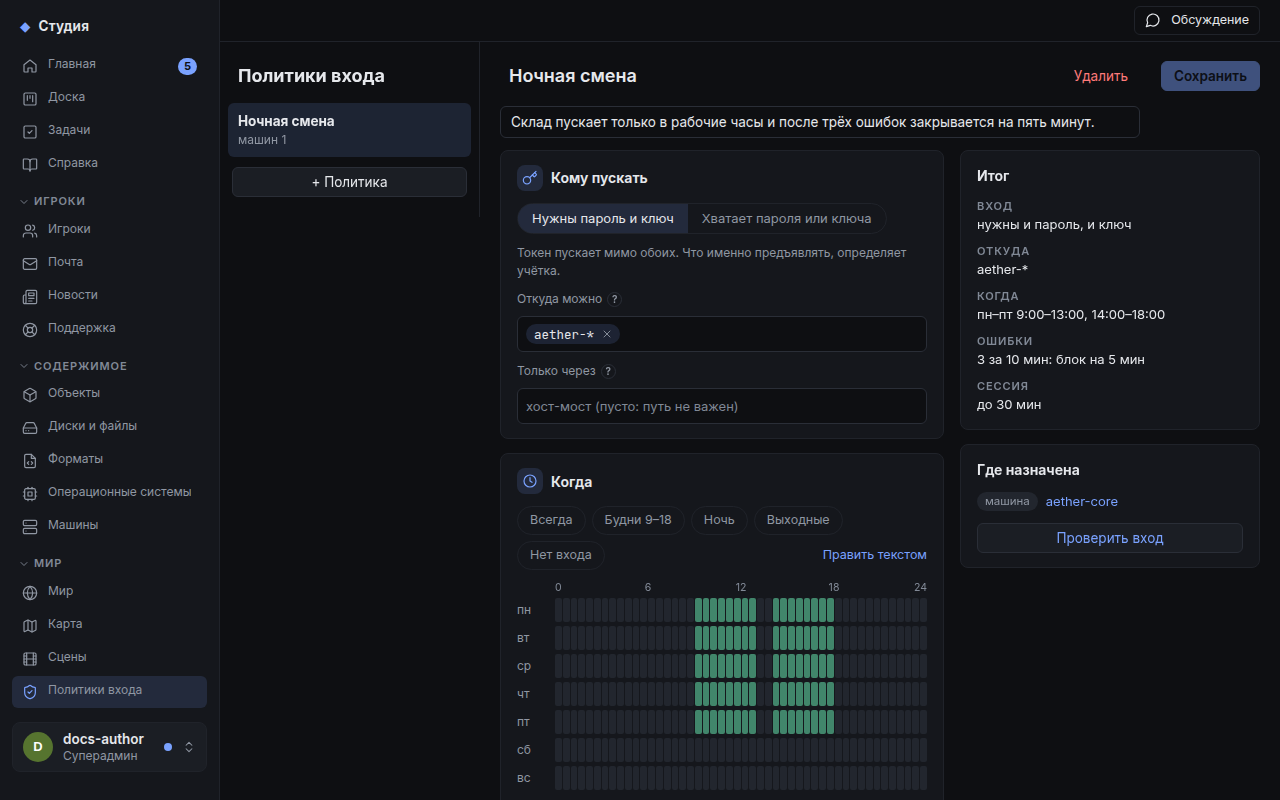
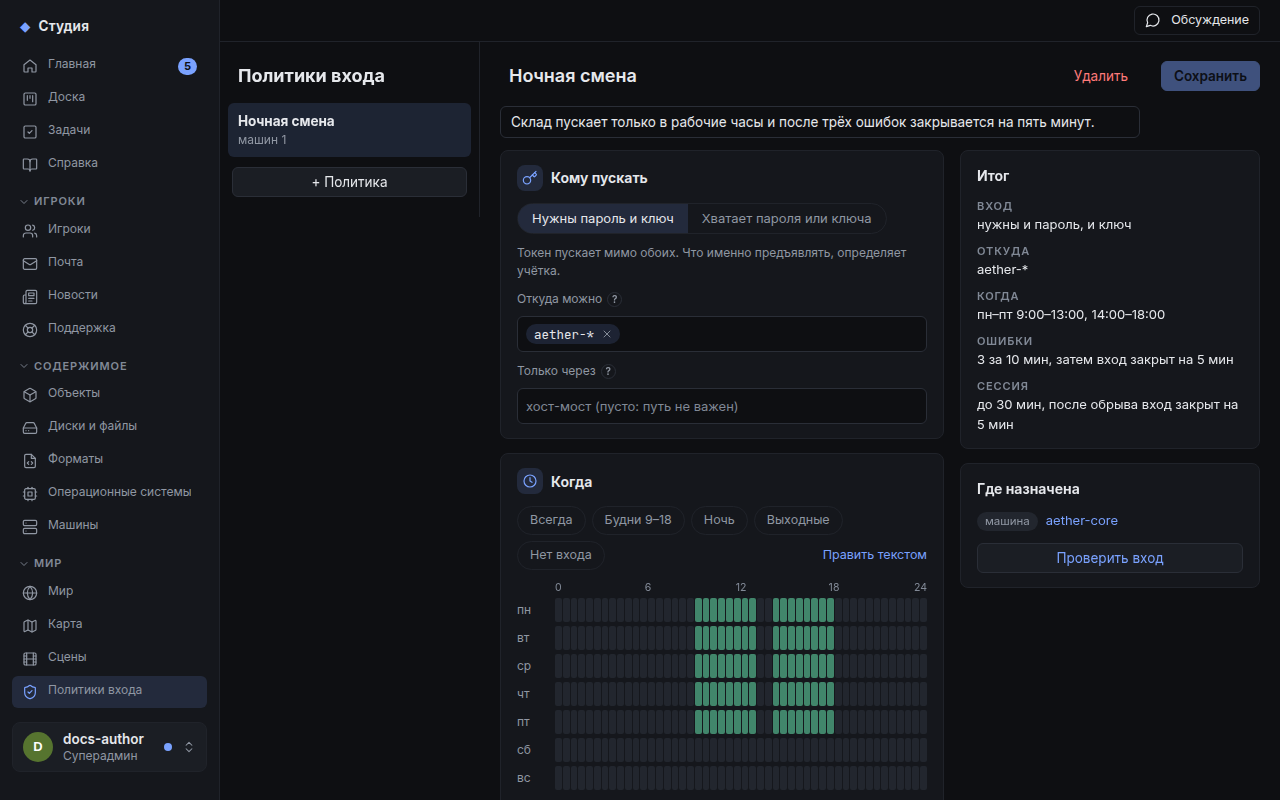
Studio policies: shared lock duration for attempts and ttl, real rcon commands in player preview

Changed region(s): [[0.75, 0.5625, 0.9062, 0.7188], [0.8125, 0.5, 0.9688, 0.5312], [0.8125, 0.4375, 0.9688, 0.4688]]

diff --git a/studio/frontend/src/routes/Policies.svelte b/studio/frontend/src/routes/Policies.svelte
@@ -123,11 +123,12 @@
   const KIND: Record<string, string> = { system: "ОС", machine: "машина", account: "учётка" };
 
   const TEXTS = [
-    { key: "denied_text", label: "Отказ", when: "Не тот хост или не тот путь через мосты." },
+    { key: "denied_text", label: "Отказ", when: "Не тот хост или не тот путь через мосты. Игрок получает обычный отказ." },
     { key: "locked_text", label: "Блокировка", when: "Слишком много ошибок подряд: вход закрыт на время блока." },
-    { key: "window_text", label: "Вне окна", when: "Вход пробуют вне разрешённых часов." },
-    { key: "kick_text", label: "Обрыв по сроку", when: "Сессия закончилась по сроку подключения." },
+    { key: "window_text", label: "Вне окна", when: "Вход пробуют вне разрешённых часов. Игрок получает тот же отказ, что и при неверных данных." },
+    { key: "kick_text", label: "Обрыв по сроку", when: "Сессия закончилась по сроку подключения: текст показывается в окне обрыва." },
   ] as const;
+  const mmss = (seconds: number) => `${String(Math.floor(seconds / 60)).padStart(2, "0")}:${String(seconds % 60).padStart(2, "0")}`;
   let textTab = $state<(typeof TEXTS)[number]["key"]>("denied_text");
   let textMode = $state(false);
 
@@ -216,7 +217,6 @@
               <p class="sentence">
                 После <input class="field num" type="number" min="1" bind:value={form.max_attempts} aria-label="Ошибок до блока" /> {plural(form.max_attempts ?? 0, "ошибки", "ошибок", "ошибок")}
                 за <Duration label="Окно подсчёта ошибок" value={form.attempts_window} onchange={(v) => (form.attempts_window = v)} />
-                закрыть вход на <Duration label="Длительность блока" value={form.lock_seconds} onchange={(v) => (form.lock_seconds = v)} />
               </p>
             {:else}
               <p class="muted small">Сколько бы ни ошибались, вход не закрывается.</p>
@@ -225,15 +225,23 @@
               <Switch checked={form.ttl != null} label="Обрывать сессию по сроку" onchange={(on) => (form.ttl = on ? 1800 : null)} />
             </div>
             {#if form.ttl != null}
-              <p class="sentence">Сессия обрывается через <Duration label="Срок подключения" value={form.ttl} onchange={(v) => (form.ttl = v)} /> после входа. Блок после обрыва задаётся блокировкой выше.</p>
+              <p class="sentence">Сессия обрывается через <Duration label="Срок подключения" value={form.ttl} onchange={(v) => (form.ttl = v)} /> после входа.</p>
             {:else}
               <p class="muted small">Подключение живёт, пока игрок сам не выйдет.</p>
+            {/if}
+            {#if form.max_attempts != null || form.ttl != null}
+              <p class="sentence lock">
+                <Icon name="lock" size={14} />Закрывать вход на <Duration label="Длительность блока" value={form.lock_seconds} onchange={(v) => (form.lock_seconds = v)} />
+                {#if form.max_attempts != null && form.ttl != null}после блокировки по ошибкам и после обрыва по сроку
+                {:else if form.max_attempts != null}после блокировки по ошибкам
+                {:else}после обрыва по сроку{/if}
+              </p>
             {/if}
           </section>
 
           <section class="card">
             <h3><span class="ico"><Icon name="eye" size={16} /></span>Что видит игрок</h3>
-            <p class="muted small">Игрок не узнаёт, какое именно условие не выполнено. Свой текст заменяет стандартный текст системы.</p>
+            <p class="muted small">Игрок не узнаёт, какое именно условие не выполнено. Свой текст показывается под стандартным ответом системы, а не вместо него.</p>
             <div class="tabs" role="tablist">
               {#each TEXTS as item (item.key)}
                 <button role="tab" aria-selected={textTab === item.key} class:on={textTab === item.key} onclick={() => (textTab = item.key)}>{item.label}{#if form[item.key]}<span class="dot" title="Свой текст"></span>{/if}</button>
@@ -241,10 +249,22 @@
             </div>
             {#each TEXTS.filter((item) => item.key === textTab) as item (item.key)}
               <p class="muted small">{item.when}</p>
-              <input class="field" bind:value={form[item.key]} placeholder="стандартный текст системы" aria-label={item.label} />
+              {#if item.key === "locked_text" && form.max_attempts == null}<p class="idle small">Блокировка по ошибкам выключена: этот текст не появится.</p>{/if}
+              {#if item.key === "kick_text" && form.ttl == null}<p class="idle small">Обрыв по сроку выключен: этот текст не появится.</p>{/if}
+              <input class="field" bind:value={form[item.key]} placeholder="без дополнительного текста" aria-label={item.label} />
               <div class="screen" aria-label="Как это увидит игрок">
-                <div class="dim">$ ssh ivan@aether-core</div>
-                {#if form[item.key]}<div class="err-line">{form[item.key]}</div>{:else}<div class="dim">Покажется стандартный текст системы.</div>{/if}
+                {#if item.key === "kick_text"}
+                  <div class="dim"># сессия закончилась по сроку, окно обрыва:</div>
+                  {#if form.kick_text}<div class="err-line">{form.kick_text}</div>{:else}<div class="dim">(только стандартный экран обрыва)</div>{/if}
+                {:else}
+                  <div class="dim">$ rcon ivan@aether-core</div>
+                  {#if item.key === "locked_text"}
+                    <div class="err-line">rcon: ivan@aether-core: account locked, security review in progress (retry in {mmss(form.lock_seconds ?? 300)})</div>
+                  {:else}
+                    <div class="err-line">Permission denied (publickey,password).</div>
+                  {/if}
+                  {#if form[item.key]}<div class="err-line">{form[item.key]}</div>{/if}
+                {/if}
               </div>
             {/each}
           </section>
@@ -258,8 +278,8 @@
               <li><span class="k">Откуда</span>{sourcesList.length ? sourcesList.join(", ") : "откуда угодно"}</li>
               {#if viaList.length}<li><span class="k">Через</span>{viaList.join(", ")}</li>{/if}
               <li><span class="k">Когда</span>{week?.error ? "окна записаны с ошибкой" : windowsInWords(paintGrid)}</li>
-              <li><span class="k">Ошибки</span>{form.max_attempts != null ? `${form.max_attempts} за ${duration(form.attempts_window)}: блок на ${duration(form.lock_seconds)}` : "блокировки нет"}</li>
-              <li><span class="k">Сессия</span>{form.ttl != null ? `до ${duration(form.ttl)}` : "без ограничения"}</li>
+              <li><span class="k">Ошибки</span>{form.max_attempts != null ? `${form.max_attempts} за ${duration(form.attempts_window)}, затем вход закрыт на ${duration(form.lock_seconds)}` : "блокировки нет"}</li>
+              <li><span class="k">Сессия</span>{form.ttl != null ? `до ${duration(form.ttl)}, после обрыва вход закрыт на ${duration(form.lock_seconds)}` : "без ограничения"}</li>
             </ul>
           </section>
           <section class="card">
@@ -329,6 +349,7 @@
   .area { height: auto; min-height: 64px; padding: 8px 10px; resize: vertical; }
   .line { margin-top: 2px; }
   .sentence { display: flex; flex-wrap: wrap; align-items: center; gap: 6px 6px; margin: 0 0 4px 40px; font-size: 13.5px; }
+  .lock { margin-left: 0; padding-top: 8px; border-top: 1px solid var(--line-soft); color: var(--muted); }
   .num { width: 60px; height: 30px; padding: 2px 8px; }
   .tabs { display: flex; gap: 2px; border-bottom: 1px solid var(--line-soft); }
   .tabs button { display: inline-flex; align-items: center; gap: 6px; padding: 7px 12px; margin-bottom: -1px; border: 0; border-bottom: 2px solid transparent; background: none; color: var(--muted); font: inherit; font-size: 13px; cursor: pointer; }

diff --git a/docs/guide/world-policies.md b/docs/guide/world-policies.md
@@ -28,11 +28,12 @@ order: 37
 - «Править текстом» открывает правила построчно (`mon-fri: 9:00-13:00 14:00-18:00`, `except sun: *`). Текст и сетка всегда показывают одно и то же. Если нарисовать окна на сетке, правила записываются заново равнозначным текстом: комментарии и `except` пропадают, об этом предупреждает строка под полем. Если текст записан с ошибкой, сетка прячется, а сообщение говорит, что исправить.
 
 **Ошибки и срок.**
-- Выключатель «Блокировать после неверных попыток» и фраза «После N ошибок за M закрыть вход на K». Выключатель выключен: блокировки нет (поле пустое).
-- Выключатель «Обрывать сессию по сроку» и «Сессия обрывается через N после входа». Выключен: подключение живёт, пока игрок не выйдет. Время вводится числом с единицами: секунды, минуты, часы.
-- Значения по умолчанию при включении: 3 ошибки за 10 минут, блок на 5 минут, срок 30 минут.
+- Выключатель «Блокировать после неверных попыток» и фраза «После N ошибок за M». Выключатель выключен: блокировки нет (поле пустое).
+- Выключатель «Обрывать сессию по сроку» и фраза «Сессия обрывается через N после входа». Выключен: подключение живёт, пока игрок не выйдет.
+- Строка «Закрывать вход на K» появляется, если включён хотя бы один из двух выключателей, и подписана тем, к чему относится: после блокировки по ошибкам, после обрыва по сроку или после обоих. Это одно поле: на сколько закрывается вход и после блокировки, и после обрыва. Поэтому только срок без блокировки по ошибкам настраивается полностью.
+- Время вводится числом с единицами: секунды, минуты, часы. Значения по умолчанию при включении: 3 ошибки за 10 минут, срок 30 минут (длительность закрытия по умолчанию 5 минут).
 
-**Что видит игрок.** Четыре вкладки: «Отказ», «Блокировка», «Вне окна», «Обрыв по сроку». Точка на вкладке значит, что задан свой текст. Под полем мини-экран показывает, как это выглядит; пустое поле значит стандартный текст системы.
+**Что видит игрок.** Четыре вкладки: «Отказ», «Блокировка», «Вне окна», «Обрыв по сроку». Точка на вкладке значит, что задан свой текст. Свой текст показывается под стандартным ответом системы, а не вместо него. Под полем мини-экран показывает, как это выглядит в терминале: команда `rcon ivan@aether-core`, стандартный ответ (`Permission denied (publickey,password).` или `rcon: …: account locked, security review in progress (retry in MM:SS)`) и ваша строка. «Вне окна» даёт тот же отказ, что и неверные данные: игрок не узнаёт причину. Для обрыва по сроку показано окно обрыва.
 
 **Итог** справа пересказывает политику словами по полям: вход, откуда, через что, когда, ошибки, сессия. Ниже «Где назначена» со ссылками на машины и кнопка «Проверить вход» (открывает вкладку проверки первой машины, где политика назначена). Если политика нигде не назначена, панель об этом предупреждает.
 
